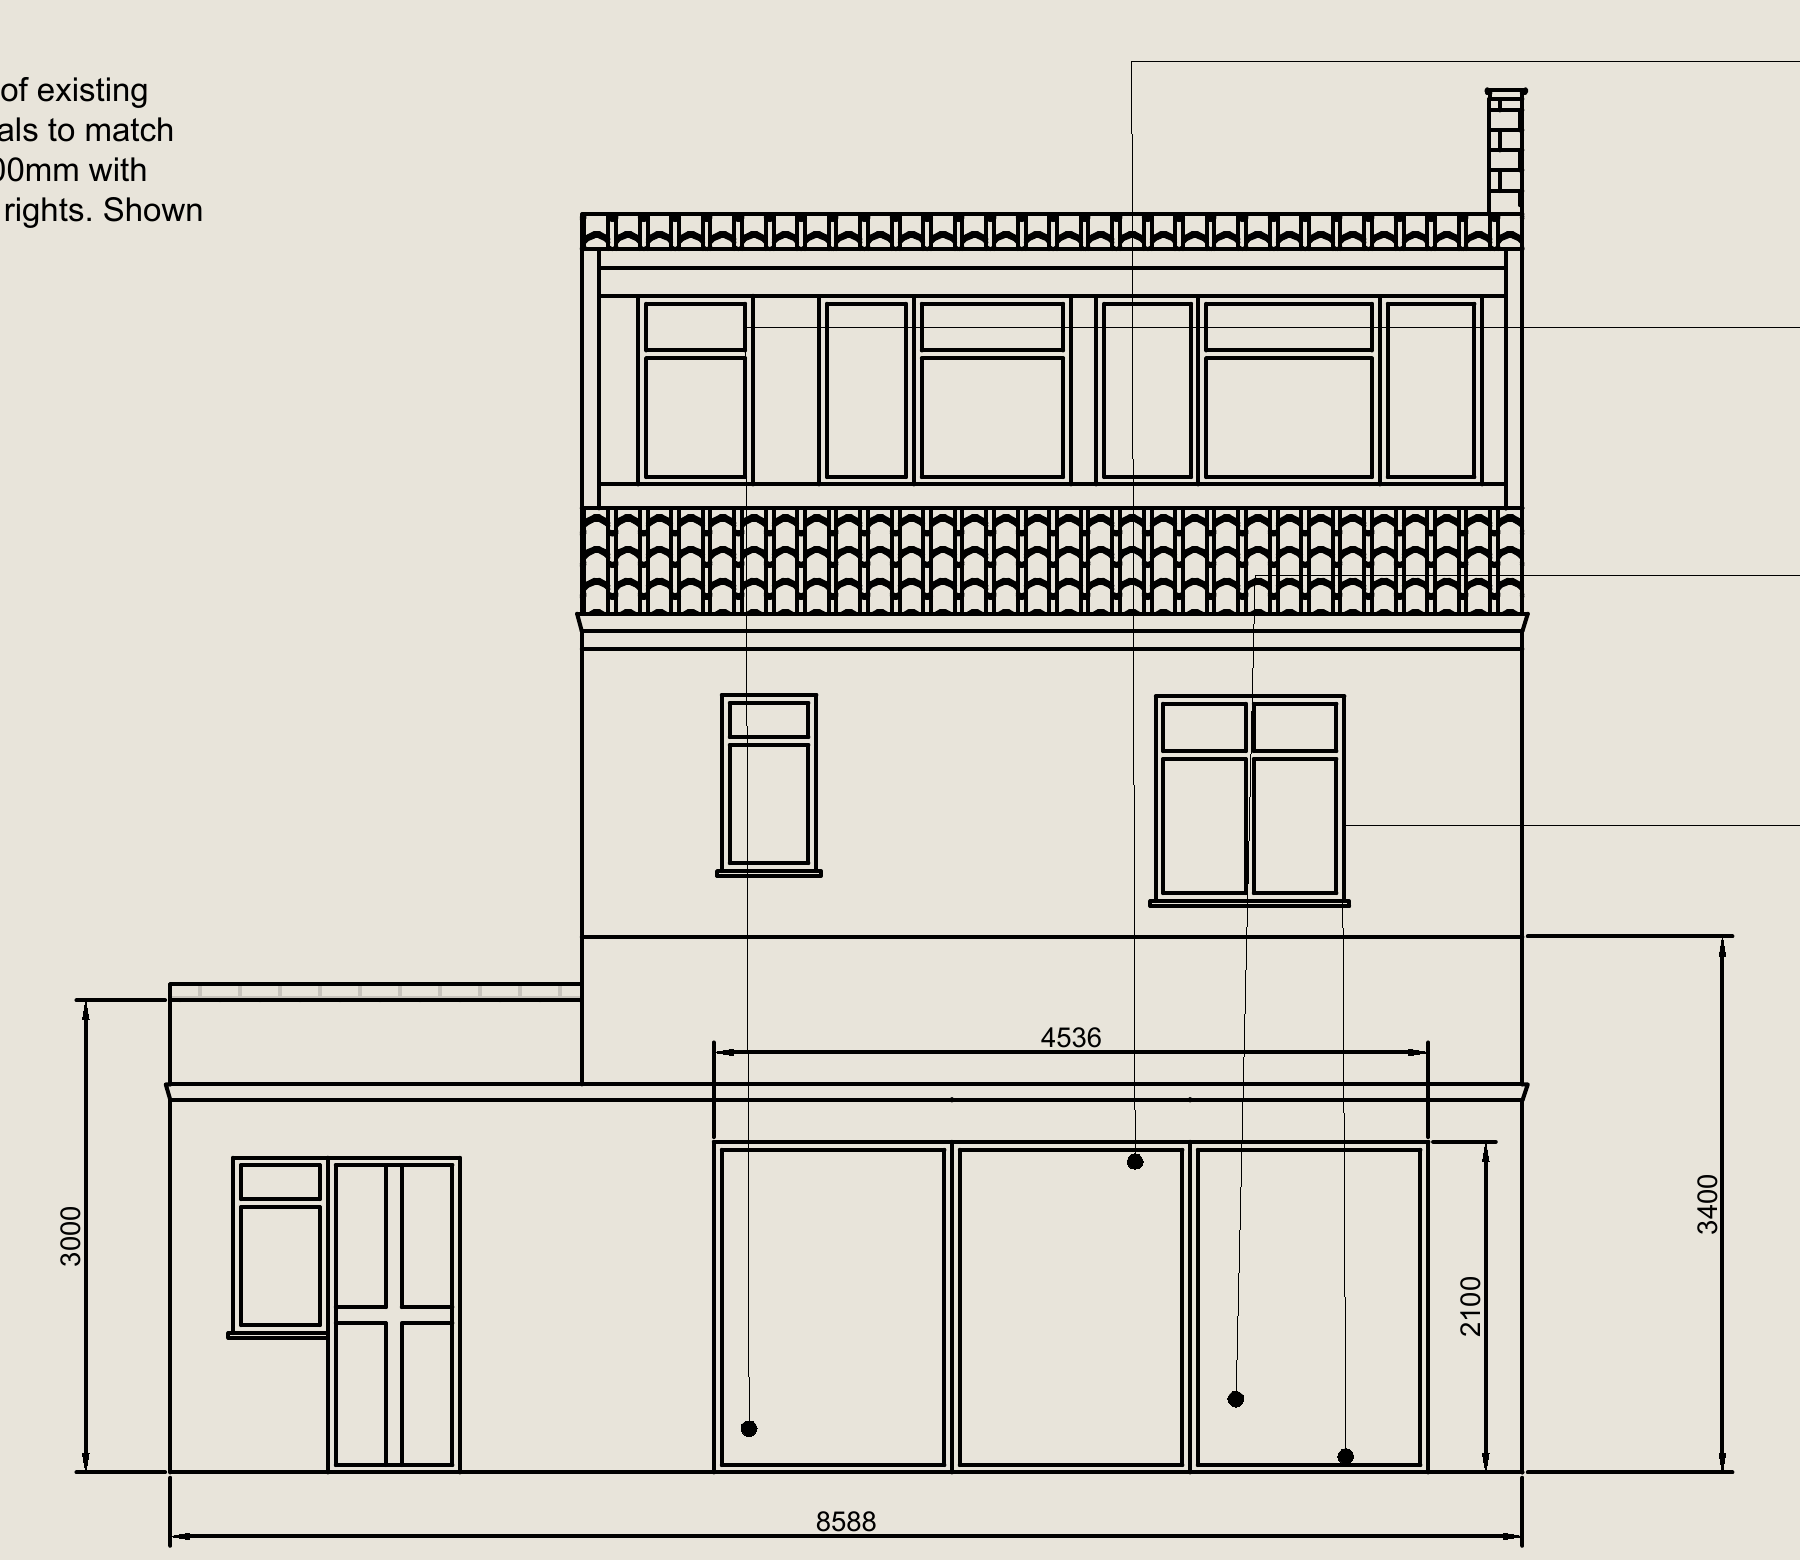
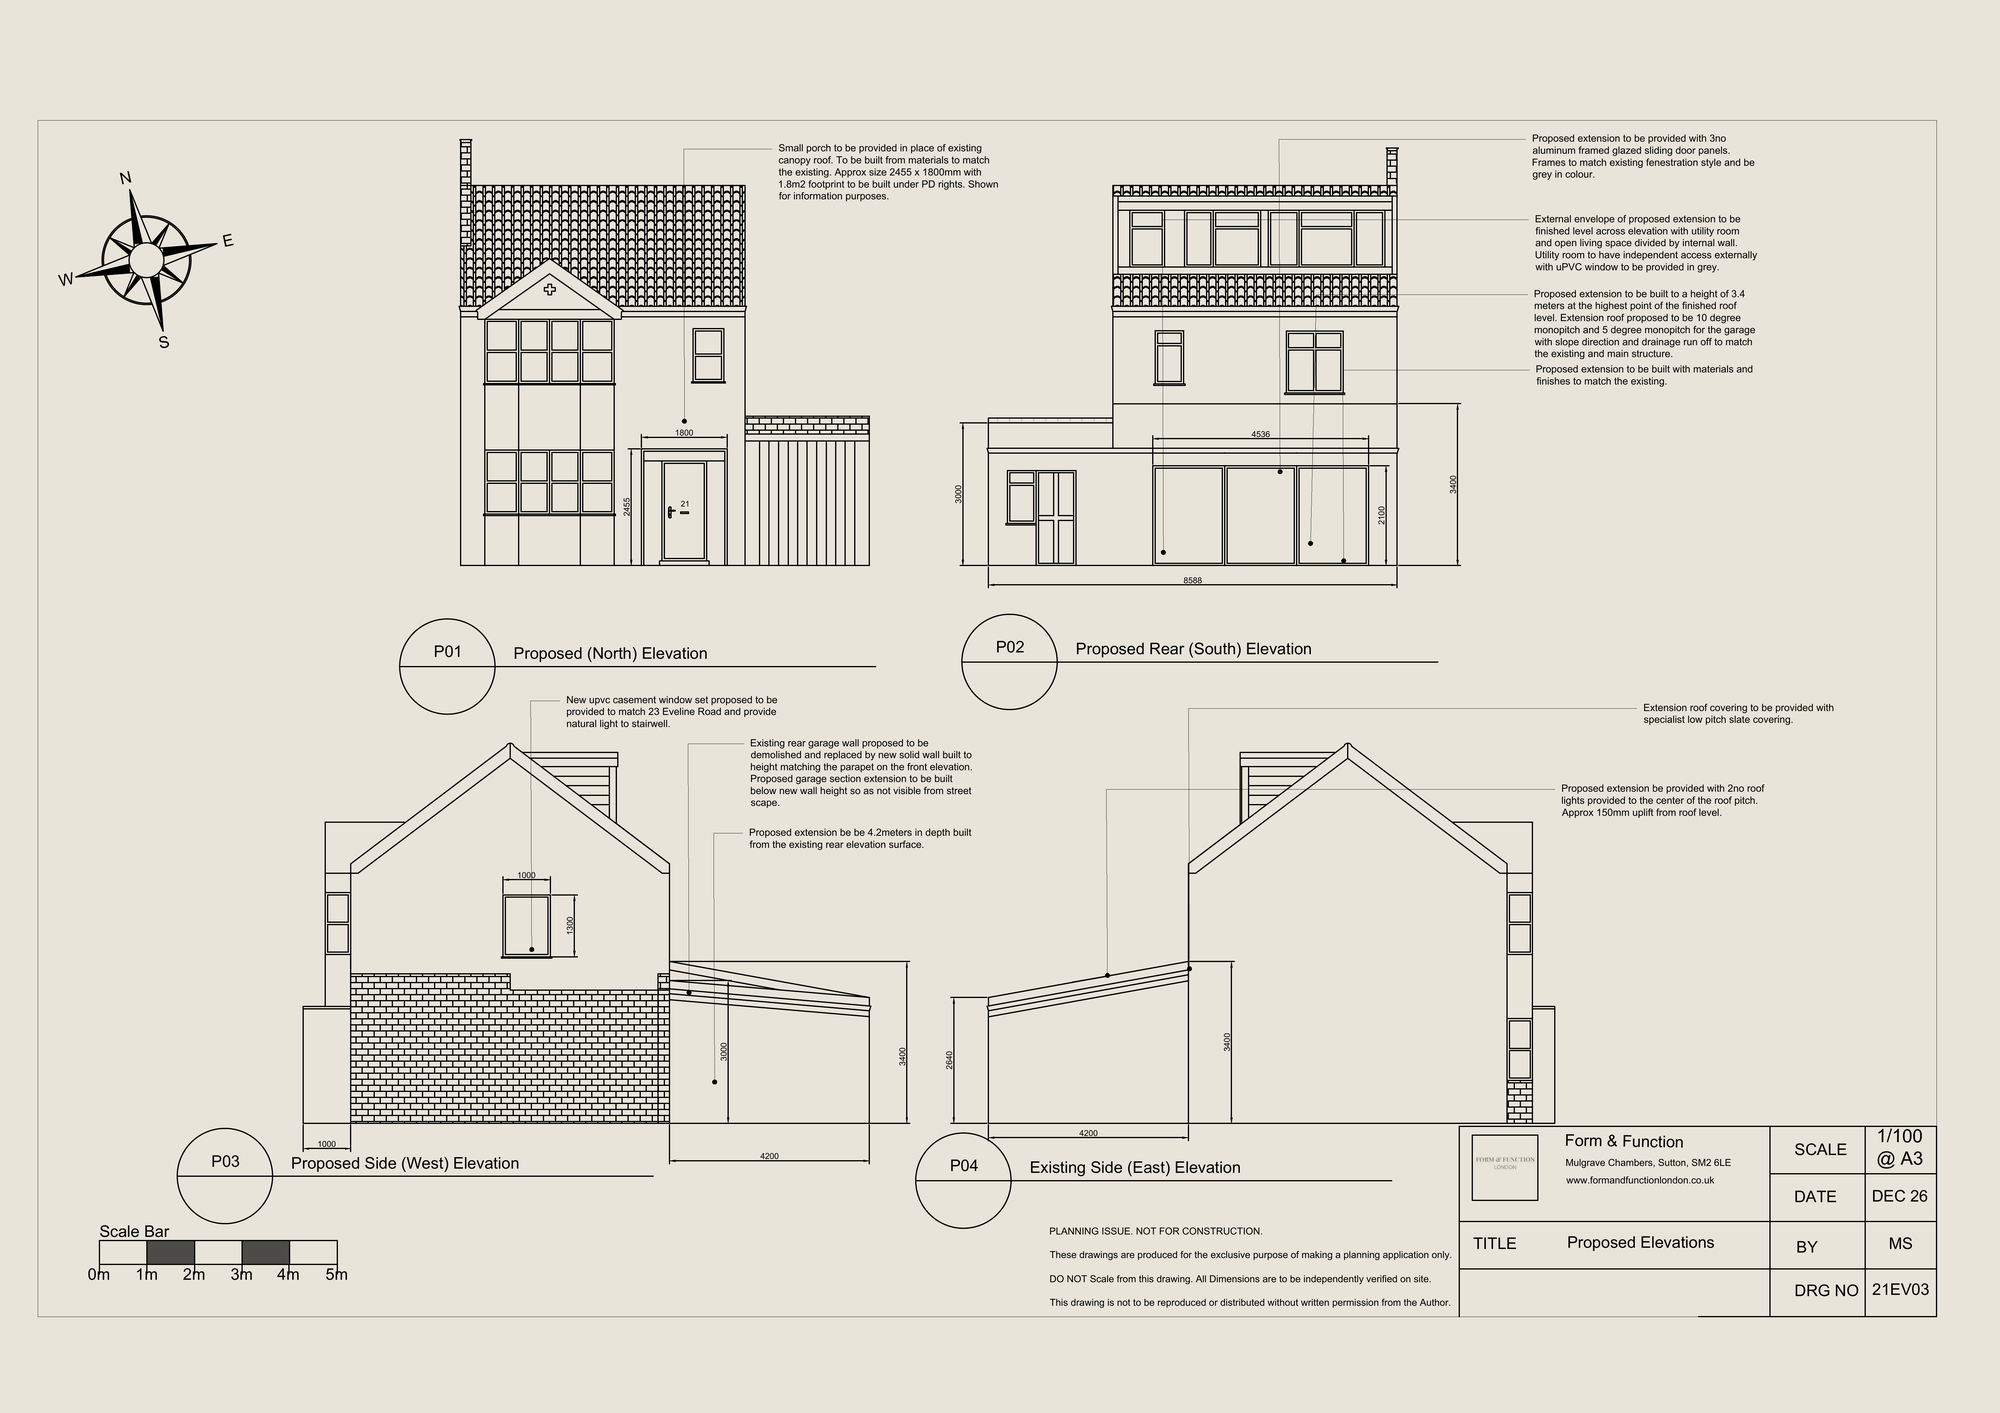
Shorten review quotes to four lines, show full drawing sheets
- Trim all three testimonial quotes to a consistent ~4 lines, cutting
  filler while keeping each review reading as genuine client feedback
  rather than marketing copy
- Replace the tightly-cropped single-elevation drawing images with the
  full planning drawing sheet (all elevations, title block, compass,
  scale bar) for each project, composited onto the same warm
  off-white background — the previous crop read as too zoomed in
- Updated alt text to describe the full sheet rather than a single
  elevation

diff --git a/src/lib/content.ts b/src/lib/content.ts
@@ -187,8 +187,7 @@ export type Testimonial = {
 // rewritten outcome-first as a short quoted line stating the result.
 export const testimonials: Testimonial[] = [
   {
-    quote:
-      "Michael made the drawings and planning process much less stressful. He was very professional, answered all my questions promptly and was always helpful throughout.",
+    quote: "Michael made the drawings and planning process much less stressful, and was always helpful.",
     name: "Irina",
     context: "Rear extension · Mitcham",
     image: "/images/testimonials/eveline-road/existing.jpg",
@@ -201,7 +200,7 @@ export const testimonials: Testimonial[] = [
       },
       {
         src: "/images/testimonials/eveline-road/approved-drawings.png",
-        alt: "The approved proposed rear elevation drawing for 21 Eveline Road",
+        alt: "The approved planning drawing sheet for 21 Eveline Road, showing all proposed elevations",
         label: "Approved Drawings",
         fit: "contain",
       },
@@ -215,8 +214,7 @@ export const testimonials: Testimonial[] = [
     ],
   },
   {
-    quote:
-      "Great service from start to finish. Michael was honest, knowledgeable and incredibly detail-focused throughout. The drawings and planning application were handled professionally, communication was clear, and the whole process felt straightforward. I would happily recommend Form & Function London.",
+    quote: "Great service from start to finish. Michael was honest, knowledgeable and detail-focused throughout.",
     name: "Harry",
     context: "House extension · South West London",
     image: "/images/testimonials/turvin-crescent/existing.jpg",
@@ -232,7 +230,7 @@ export const testimonials: Testimonial[] = [
       },
       {
         src: "/images/testimonials/turvin-crescent/proposed-drawings.png",
-        alt: "The proposed rear elevation drawing for 14 Turvin Crescent",
+        alt: "The proposed planning drawing sheet for 14 Turvin Crescent, showing all proposed elevations",
         label: "Proposed Drawings",
         fit: "contain",
       },
@@ -246,8 +244,7 @@ export const testimonials: Testimonial[] = [
     ],
   },
   {
-    quote:
-      "We had an excellent experience from start to finish. Michael was professional, supportive and knowledgeable throughout the entire process. Communication was always clear, and we were kept informed at every stage. Thanks to Michael's expertise and guidance, our planning application was successfully approved, which we were absolutely delighted about. He made what can often be a stressful process feel smooth and straightforward. We would highly recommend Form & Function London.",
+    quote: "An excellent experience from start to finish. Michael was professional, and our application was approved.",
     name: "Tasha",
     context: "House extension · Surrey",
     image: "/images/testimonials/upfield-horley/existing.jpg",
@@ -260,7 +257,7 @@ export const testimonials: Testimonial[] = [
       },
       {
         src: "/images/testimonials/upfield-horley/approved-drawings.png",
-        alt: "The approved proposed rear elevation drawing for Upfield, Horley",
+        alt: "The approved planning drawing sheet for Upfield, Horley, showing all proposed elevations",
         label: "Approved Drawings",
         fit: "contain",
       },
